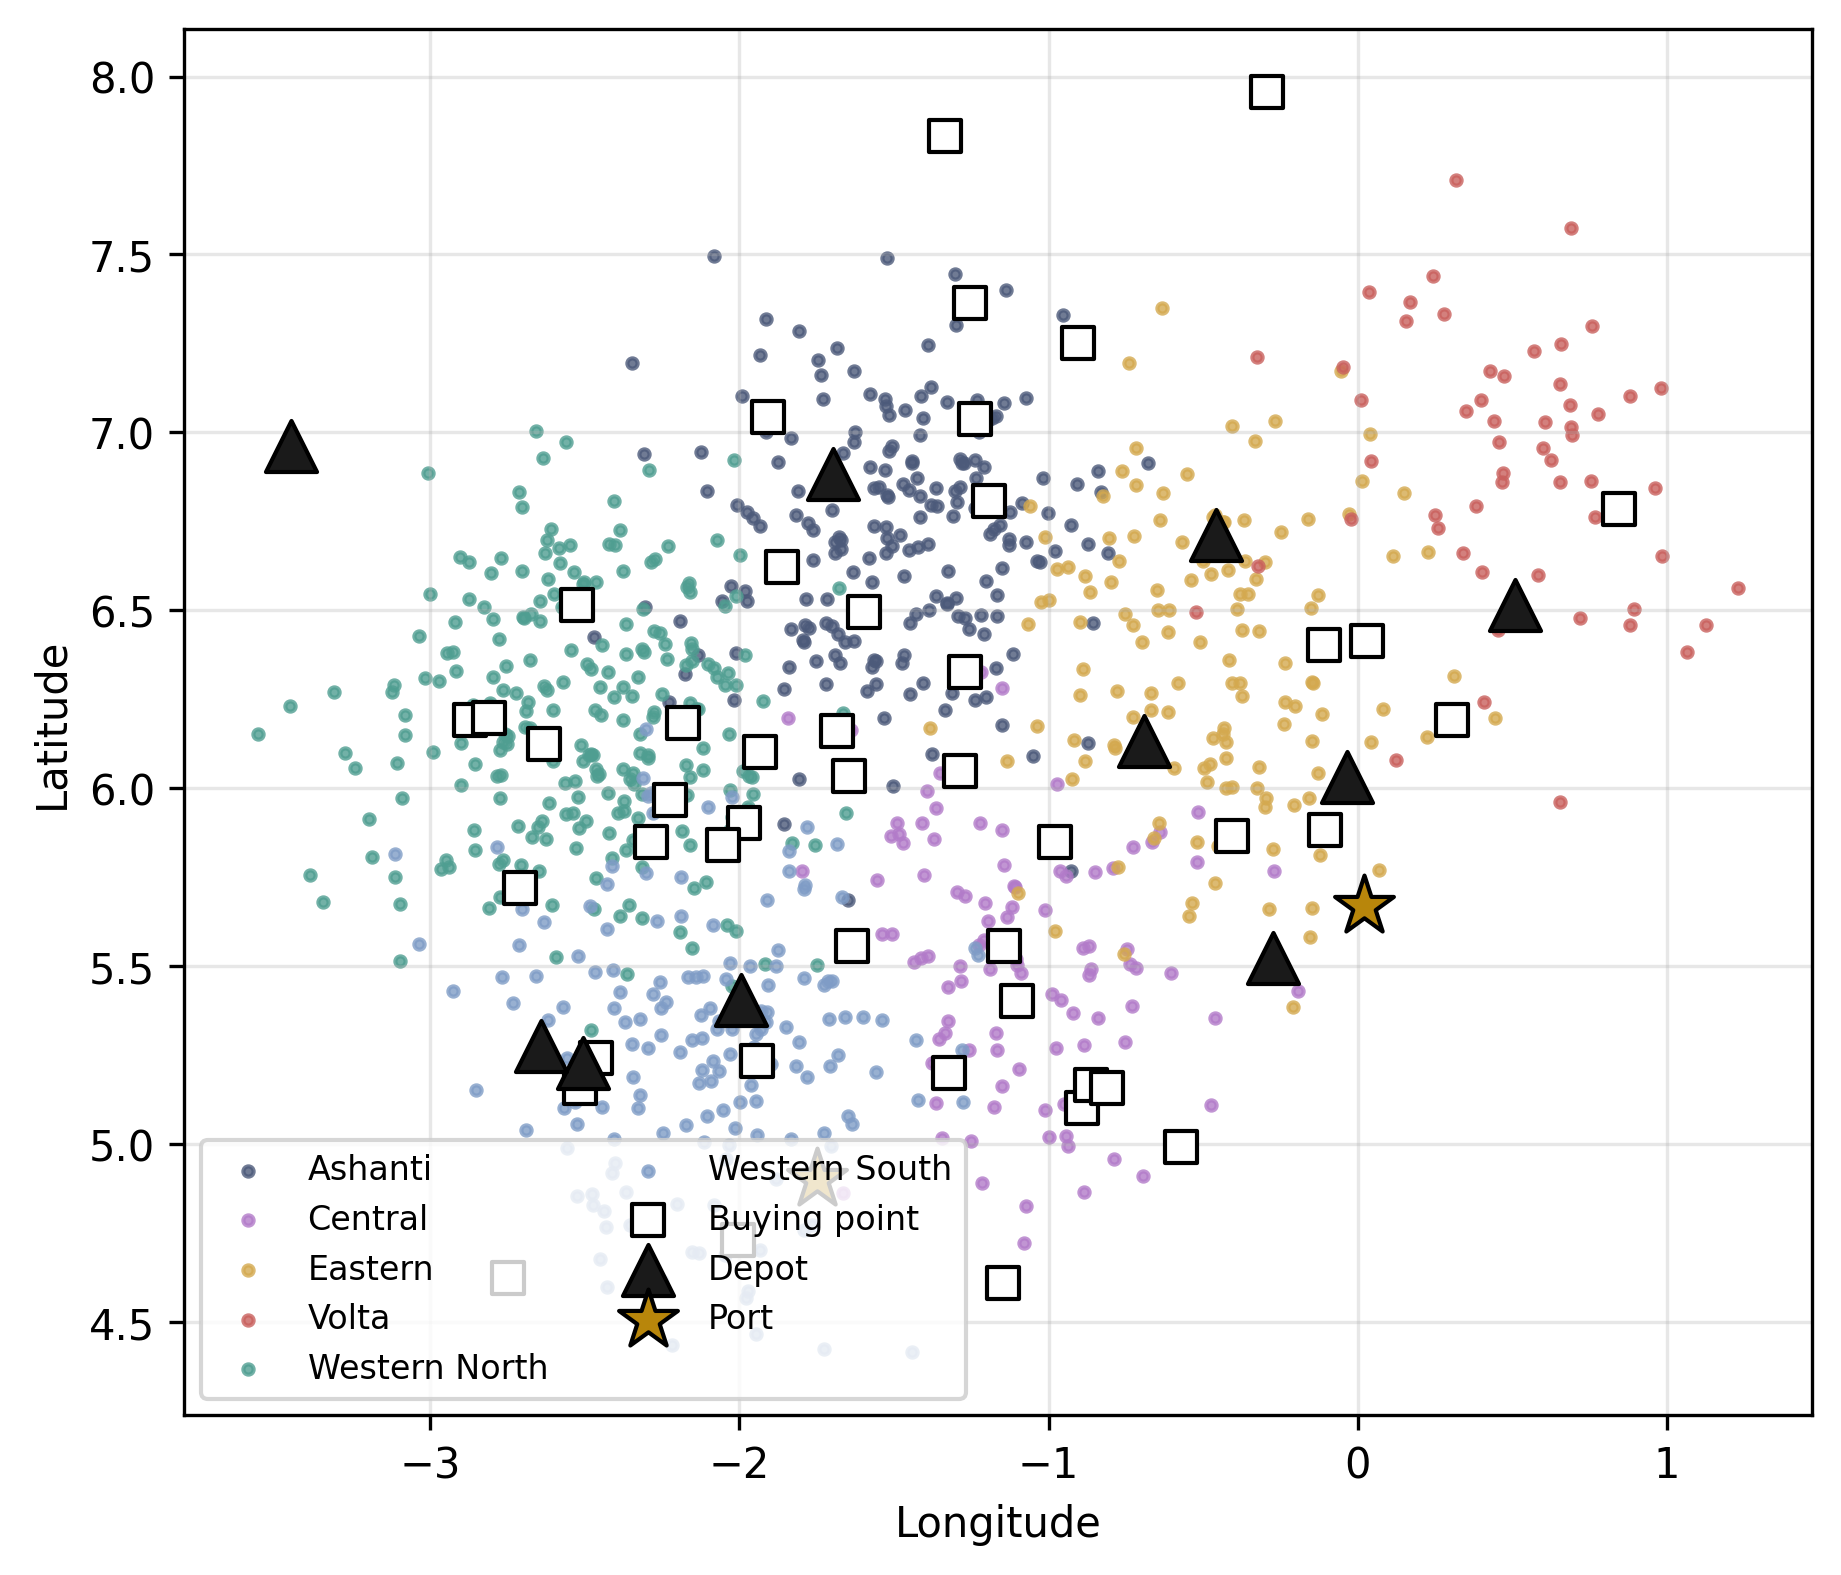
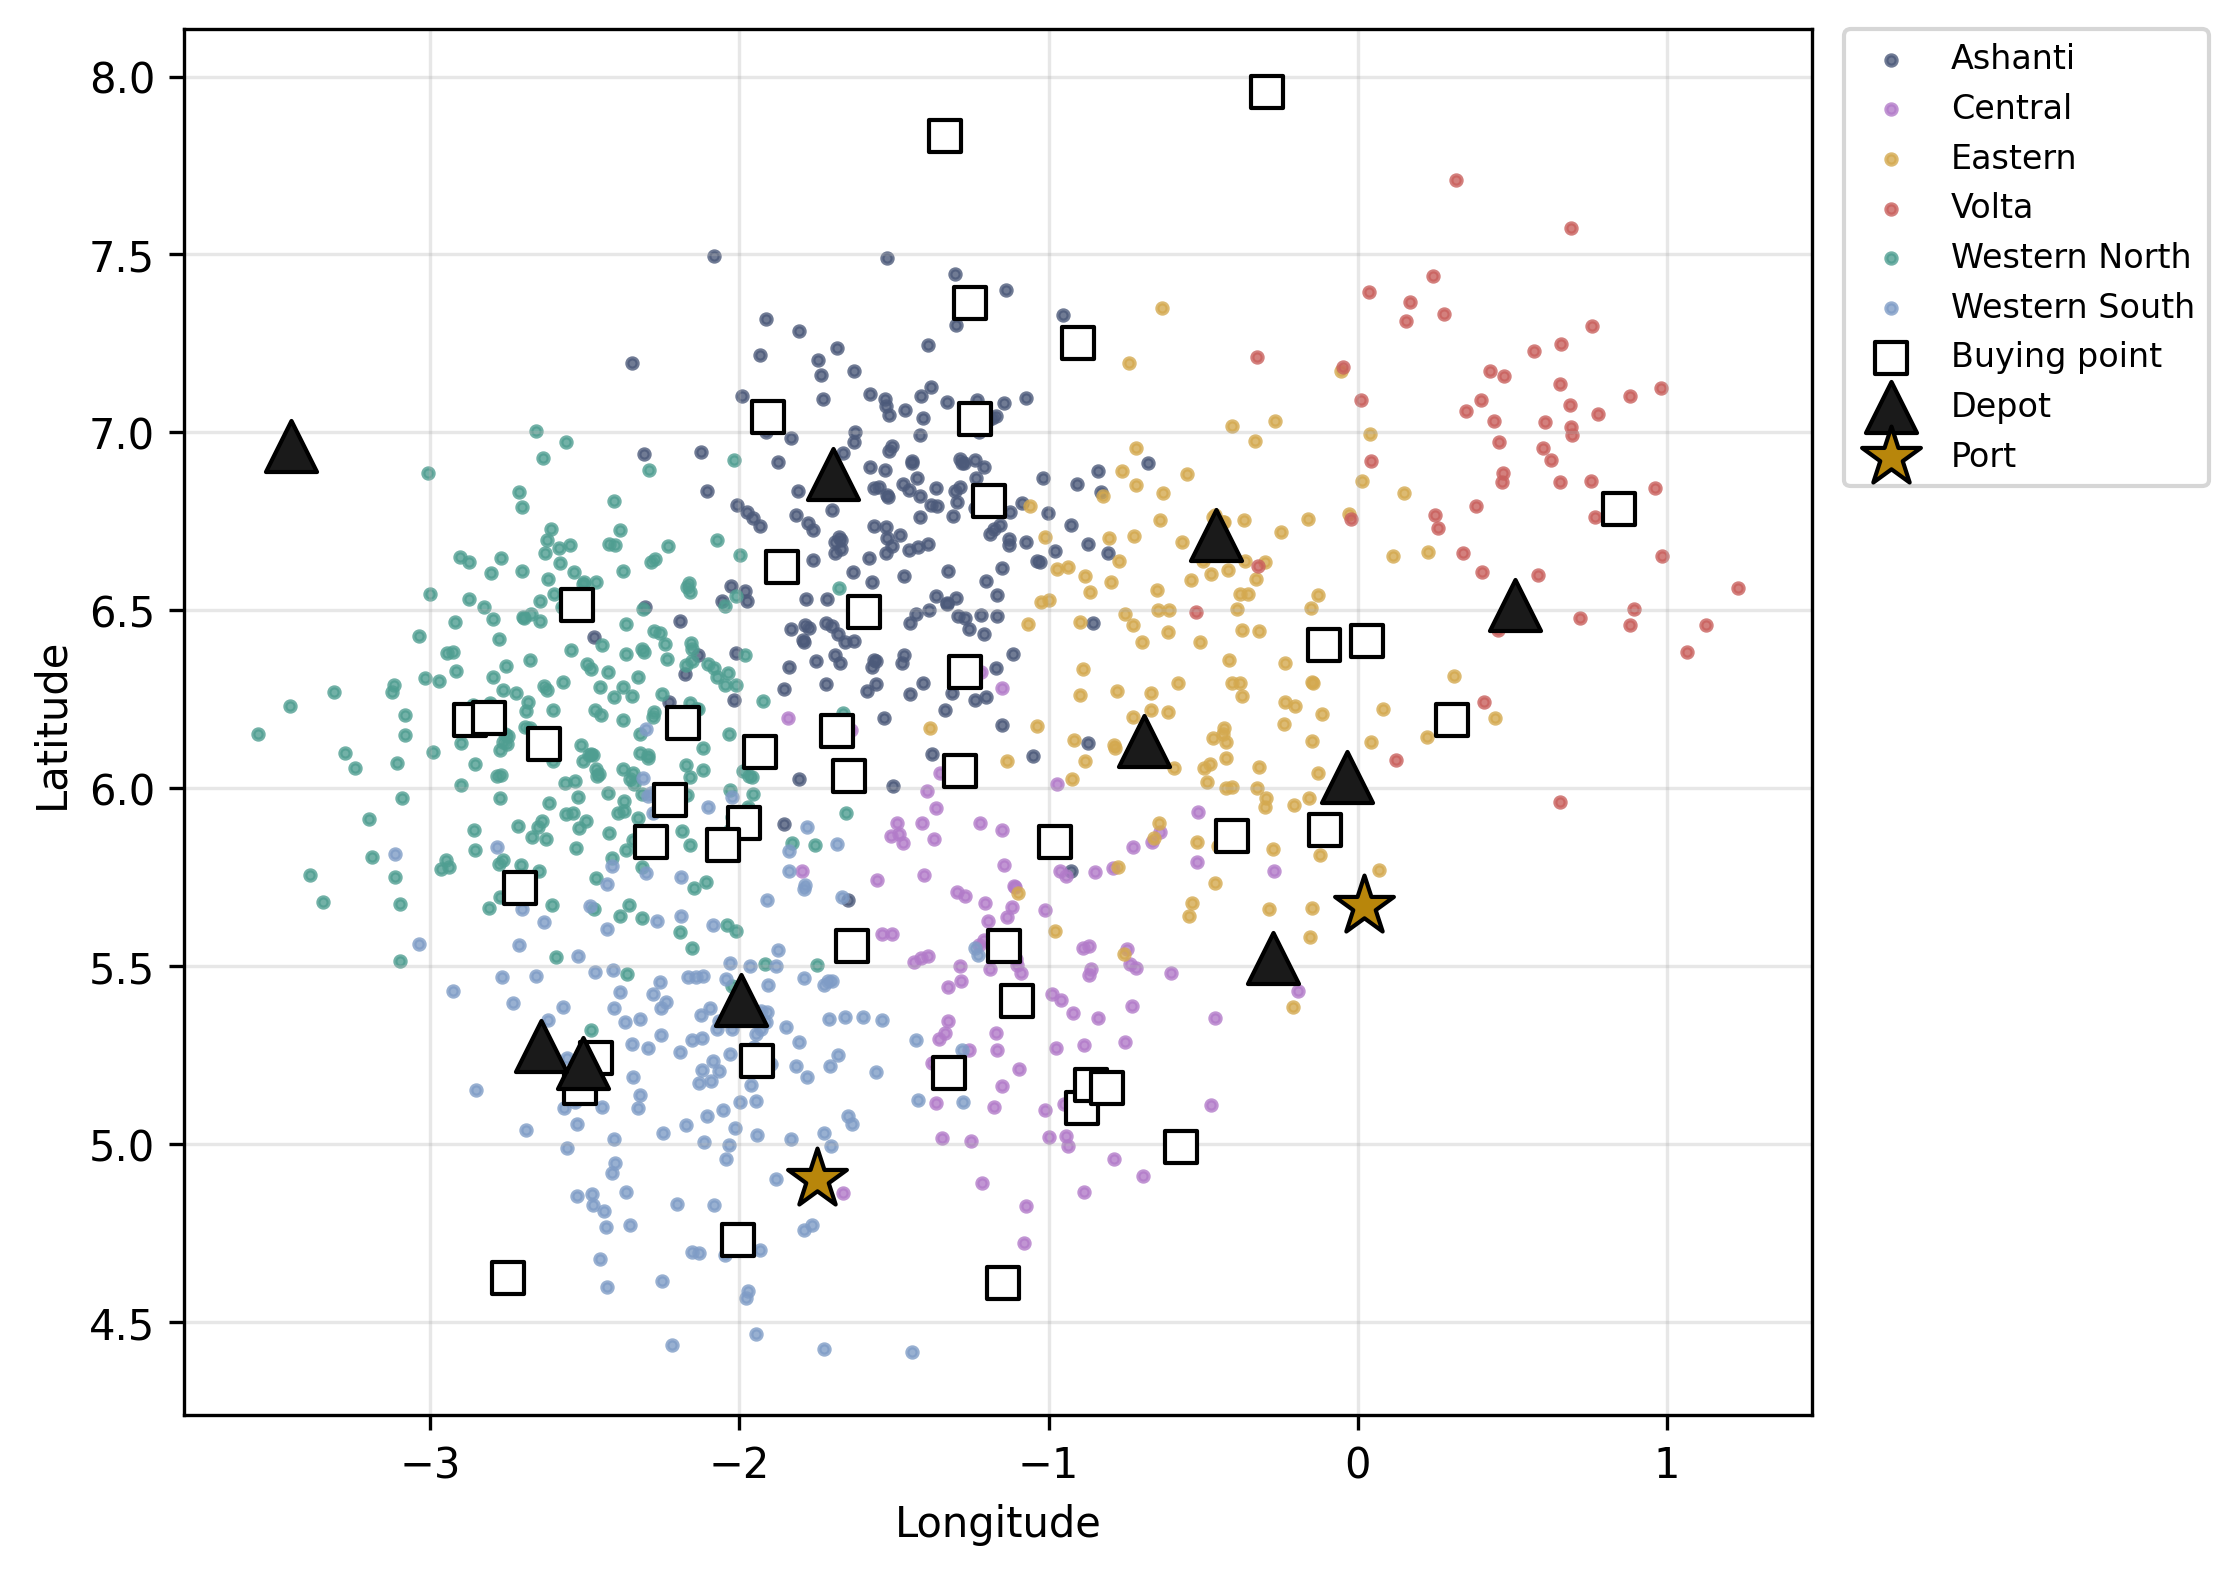
Figure 4.1: move legend outside the plot so it no longer covers the Takoradi port

diff --git a/make_figures.py b/make_figures.py
@@ -78,7 +78,7 @@ def fig_4_1(nodes: pd.DataFrame, out: Path) -> Path:
     ax.set_xlabel("Longitude")
     ax.set_ylabel("Latitude")
     ax.grid(alpha=0.3)
-    ax.legend(loc="lower left", ncol=2, fontsize=8)
+    ax.legend(loc="upper left", bbox_to_anchor=(1.02, 1), borderaxespad=0, fontsize=8)
     return save(fig, out, "fig_4_1.png")
 
 
